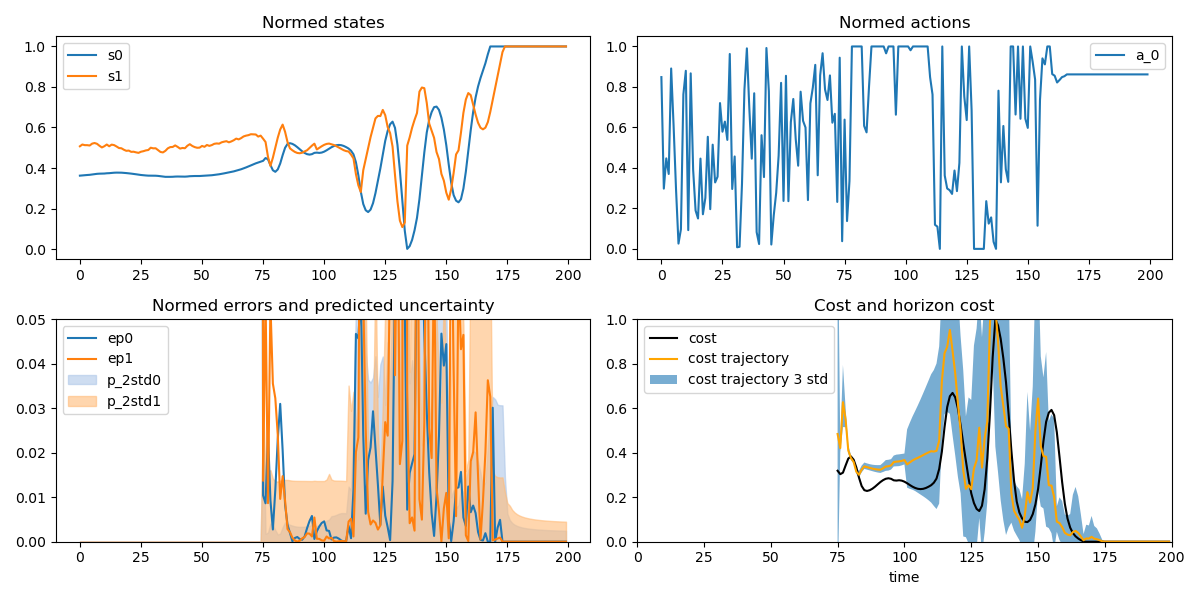
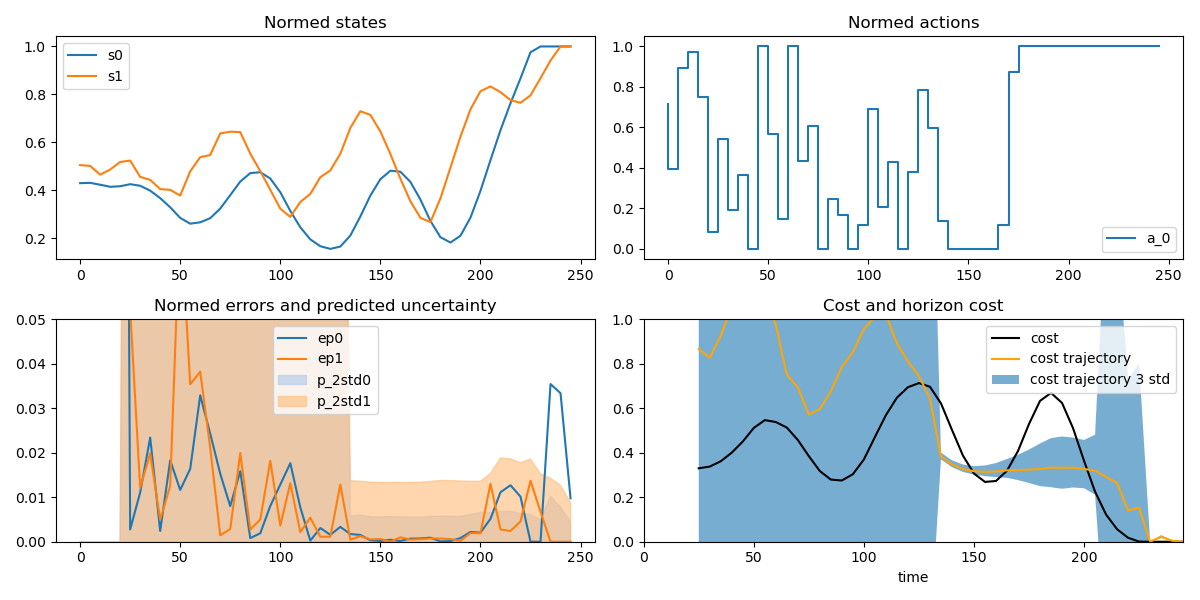
Allowed to repeat actions for longer time horizon. Added results for mountain car.

diff --git a/control_objects/utils.py b/control_objects/utils.py
@@ -13,15 +13,15 @@ from threadpoolctl import threadpool_limits
 from .gp_models import ExactGPModelMonoTask
 
 
-def save_plot_history_process(states, actions, states_next, prediction_info_over_time, output_dir, env_to_control=''):
+def save_plot_history_process(states, actions, states_next, prediction_info_over_time, folder_save, num_repeat_actions=1):
 	with threadpool_limits(limits=1, user_api='blas'), threadpool_limits(limits=1, user_api='openmp'):
-		indexes = np.arange(len(states))
+		indexes = np.arange(0, len(states) * num_repeat_actions, num_repeat_actions)
 		fig, axes = plt.subplots(nrows=2, ncols=2, figsize=(12, 6))
 		axes[0][0].set_title('Normed states')
 		axes[0][1].set_title('Normed actions')
 		axes[1][0].set_title('Normed errors and predicted uncertainty')
 		axes[1][1].set_title('Cost and horizon cost')
-		indexes_control = prediction_info_over_time['iteration']
+		indexes_control = np.array(prediction_info_over_time['iteration']) // num_repeat_actions
 		predictions_over_time_show = np.zeros_like(states_next)
 		predictions_over_time_show[indexes_control] = \
 			[prediction[0].numpy() for prediction in prediction_info_over_time['predicted states']]
@@ -39,14 +39,14 @@ def save_plot_history_process(states, actions, states_next, prediction_info_over
 			axes[1][0].fill_between(indexes, 0, 2 * predictions_std_over_time_show[:, state_idx],
 				label='p_2std' + str(state_idx),
 				color=plt.get_cmap('tab20').colors[2 * state_idx + 1], alpha=0.6)
-		axes[1][1].plot(indexes_control,
+		axes[1][1].plot(list(indexes_control * num_repeat_actions),
 			np.array([element for element in prediction_info_over_time['cost']]), label='cost', color='k')
-		axes[1][1].plot(indexes_control, mean_cost_traj, label='cost trajectory', color='orange')
-		axes[1][1].fill_between(indexes_control, mean_cost_traj - 2 * mean_cost_traj_std,
+		axes[1][1].plot(list(indexes_control * num_repeat_actions), mean_cost_traj, label='cost trajectory', color='orange')
+		axes[1][1].fill_between(list(indexes_control * num_repeat_actions), mean_cost_traj - 2 * mean_cost_traj_std,
 			mean_cost_traj + 3 * mean_cost_traj_std, label='cost trajectory 3 std', alpha=0.6)
 
 		for action_idx in range(len(actions[0])):
-			axes[0][1].plot(indexes, np.array(actions)[:, action_idx], label='a_' + str(action_idx))
+			axes[0][1].step(indexes, np.array(actions)[:, action_idx], label='a_' + str(action_idx))
 
 		plt.xlabel("time")
 		axes[0][0].legend()
@@ -55,25 +55,18 @@ def save_plot_history_process(states, actions, states_next, prediction_info_over
 		axes[1][0].set_ylim(0, 0.05)
 		axes[1][1].legend()
 		axes[1][1].set_ylim(0, 1)
-		axes[1][1].set_xlim(0, len(indexes))
+		axes[1][1].set_xlim(0, np.max(indexes))
 		plt.tight_layout()
-		year = datetime.datetime.now().year
-		month = datetime.datetime.now().month
-		day = datetime.datetime.now().day
 		hour = datetime.datetime.now().hour
 		minute = datetime.datetime.now().minute
 		second = datetime.datetime.now().second
-		folder_save = os.path.join(output_dir, env_to_control, str(year) + '_m' + str(month) + '_d' + str(day))
-		if not os.path.exists(folder_save):
-			os.makedirs(folder_save)
 		fig.savefig(os.path.join(folder_save, 'history' + '_h' + str(hour) + '_m' + str(minute)
 											  + '_s' + str(second) + '.png'))
 		plt.close()
 
 
-def save_plot_model_3d_process(input_data, output_data, train_inputs, train_targets, parameters, constraints,
-		indexes_points_in_gp_memory=None,
-		prop_extend_domain=1, n_ticks=100, total_col_max=3, fontsize=6, output_dir='models_3d', env_to_control=''):
+def save_plot_model_3d_process(input_data, output_data, train_inputs, train_targets, parameters, constraints, folder_save,
+		indexes_points_in_gp_memory=None, prop_extend_domain=1, n_ticks=100, total_col_max=3, fontsize=6):
 	with threadpool_limits(limits=1, user_api='blas'), \
 			threadpool_limits(limits=1, user_api='openmp'), torch.no_grad(), gpytorch.settings.fast_pred_var():
 		torch.set_num_threads(1)
@@ -174,7 +167,7 @@ def save_plot_model_3d_process(input_data, output_data, train_inputs, train_targ
 				surf2 = axes[subplot_idx + total_col_max].contour3D(x_grid, y_grid, z_grid_std, n_ticks, cmap='cool')
 				axes[subplot_idx + total_col_max].set_xlabel('Input ' + str(best_features[0]), fontsize=fontsize, rotation=150)
 				axes[subplot_idx + total_col_max].set_ylabel('Input ' + str(best_features[1]), fontsize=fontsize, rotation=150)
-				axes[subplot_idx + total_col_max].set_zlabel('Errors and std state ' + str(index_observation_represent),
+				axes[subplot_idx + total_col_max].set_zlabel('Uncertainty: std state ' + str(index_observation_represent),
 					fontsize=fontsize, rotation=60)
 
 				if output_data is not None:
@@ -199,15 +192,9 @@ def save_plot_model_3d_process(input_data, output_data, train_inputs, train_targ
 						color='k', linestyle="solid", alpha=0.3, arrow_length_ratio=0.001, length=0.9)
 
 			plt.tight_layout()
-			year = datetime.datetime.now().year
-			month = datetime.datetime.now().month
-			day = datetime.datetime.now().day
 			hour = datetime.datetime.now().hour
 			minute = datetime.datetime.now().minute
 			second = datetime.datetime.now().second
-			folder_save = os.path.join(output_dir, env_to_control, str(year) + '_m' + str(month) + '_d' + str(day))
-			if not os.path.exists(folder_save):
-				os.makedirs(folder_save)
 			fig.savefig(os.path.join(folder_save, 'model_3d' + '_h' + str(hour) + '_m' + str(minute)
 															  + '_s' + str(second) + '.png'))
 			plt.close()

diff --git a/main.py b/main.py
@@ -1,5 +1,6 @@
 import time
 import os
+import datetime
 
 import numpy as np
 import gym
@@ -26,11 +27,21 @@ def main():
 	params_actions_optimizer = params_json_env['params_actions_optimizer']
 	params_init = params_json_env['params_init']
 	params_memory = params_json_env['params_memory']
+	num_steps = params_json_env['num_steps_env']
+	num_repeat_actions = params_controller["num_repeat_actions"]
 	env = gym.make(env_to_control)
+
+	datetime_now = datetime.datetime.now()
+	folder_save = os.path.join('folder_save', env_to_control, 'y' + str(datetime_now.year) \
+					+ '_mon' + str(datetime_now.month) + '_d' + str(datetime_now.day) + '_h' + str(datetime_now.hour) \
+					+ '_min' + str(datetime_now.minute) + '_s' + str(datetime_now.second))
+	if not os.path.exists(folder_save):
+		os.makedirs(folder_save)
+
 	if params_general['save_render_env']:
 		if not os.path.exists(os.path.join('folder_save', env_to_control)):
 			os.makedirs(os.path.join('folder_save', env_to_control))
-		rec = VideoRecorder(env, path=os.path.join('folder_save', env_to_control, 'anim.mp4'))
+		rec = VideoRecorder(env, path=os.path.join(folder_save, 'anim' + env_to_control + '.mp4'))
 	env.reset()
 	target = np.array(params_controller['target'])
 	weights_target = np.diag(params_controller['weights_target'])
@@ -38,32 +49,40 @@ def main():
 	s_observation = np.diag(params_controller['s_observation'])
 	control_object = ProbabiliticGpMpcController(env.observation_space, env.action_space, params_controller,
 									params_train, params_actions_optimizer, hyperparameters_init, target,
-									weights_target, weights_target_terminal_cost, params_constraints, env_to_control)
+									weights_target, weights_target_terminal_cost, params_constraints, env_to_control,
+									folder_save, num_repeat_actions)
 	action = env.action_space.low + (env.action_space.high - env.action_space.low) * np.random.uniform(0, 1)
-	for idx_action in range(params_controller["num_repeat_actions"]):
-		observation, reward, done, info = env.step(action)
+	observation, reward, done, info = env.step(action)
 
-	for idx_random_action in range(params_init['num_random_actions_init']):
+	for idx_random_action in range(params_init['num_random_actions_init'] // num_repeat_actions):
 		control_object.action = np.random.uniform(0, 1)
 		action = env.action_space.low + (env.action_space.high - env.action_space.low) * control_object.action
-		new_observation, reward, done, info = env.step(action)
+		for idx_action in range(num_repeat_actions):
+			new_observation, reward, done, info = env.step(action)
+			if params_general['render_env']:
+				try:
+					env.render()
+				except:
+					pass
+			if params_general['save_render_env']:
+				rec.capture_frame()
 
-		if params_general['render_env']:
-			try:
-				env.render()
-			except:
-				pass
-		if params_general['save_render_env']:
-			rec.capture_frame()
 		control_object.add_point_memory(observation, action, new_observation, reward)
 		observation = new_observation
 
-	for index_iter in range(params_general['num_steps_env'] - params_init['num_random_actions_init']):
+	for index_iter in range((num_steps - params_init['num_random_actions_init']) // num_repeat_actions):
 		time_start = time.time()
 
 		action, add_info_dict = control_object.compute_prediction_action(observation, s_observation)
-		for idx_action in range(params_controller["num_repeat_actions"]):
+		for idx_action in range(num_repeat_actions):
 			new_observation, reward, done, info = env.step(action)
+			if params_general['render_env']:
+				try:
+					env.render()
+				except:
+					pass
+			if params_general['save_render_env']:
+				rec.capture_frame()
 		control_object.add_point_memory(observation, action, new_observation, reward,
 										add_info_dict=add_info_dict, params_memory=params_memory)
 		if params_general['verbose']:
@@ -71,13 +90,6 @@ def main():
 				print(key + ': ' + str(add_info_dict[key]))
 		observation = new_observation
 
-		if params_general['render_env']:
-			try:
-				env.render()
-			except:
-				pass
-		if params_general['save_render_env']:
-			rec.capture_frame()
 
 		if params_general['save_plot_history'] and \
 				(control_object.num_points_memory % params_general["frequency_iter_save"] == 0):

diff --git a/control_objects/probabilistic_gp_mpc_controller.py b/control_objects/probabilistic_gp_mpc_controller.py
@@ -17,7 +17,7 @@ torch.set_default_tensor_type(torch.DoubleTensor)
 class ProbabiliticGpMpcController(BaseControllerObject):
 	def __init__(self, observation_space, action_space, params_controller, params_train, params_actions_optimizer,
 			hyperparameters_init, target_state, weights_matrix_cost_function, weight_matrix_cost_function_terminal, 
-			constraints, env_to_control):
+			constraints, env_to_control, folder_save, num_repeat_actions):
 		BaseControllerObject.__init__(self, observation_space, action_space)
 		self.models = []
 		self.weight_matrix_cost_function = torch.Tensor(weights_matrix_cost_function)
@@ -39,8 +39,9 @@ class ProbabiliticGpMpcController(BaseControllerObject):
 		self.prediction_info_over_time = {}
 		self.limit_derivative_actions = params_controller['limit derivative actions']
 		self.max_derivative_action_norm = params_controller['max derivative actions norm']
-		self.folder_save = 'folder_save'
+		self.folder_save = folder_save
 		self.env_to_control = env_to_control
+		self.num_repeat_actions = num_repeat_actions
 		self.indexes_memory_gp = []
 		if self.limit_derivative_actions:
 			min_d_actions = -self.max_derivative_action_norm
@@ -328,7 +329,7 @@ class ProbabiliticGpMpcController(BaseControllerObject):
 			# (self.observation_space.high - self.observation_space.low) + self.observation_space.low
 			# denorm_std_states = std_states * (self.observation_space.high - self.observation_space.low)
 			std_states = torch.sqrt(torch.diagonal(self.s_states_pred, dim1=-2, dim2=-1))
-			add_info_dict = {'iteration': self.num_points_memory,
+			add_info_dict = {'iteration': self.num_points_memory * self.num_repeat_actions,
 							'state': self.mu_states_pred[0],
 							'predicted states': self.mu_states_pred[1:],
 							'predicted states std': std_states[1:],
@@ -357,8 +358,8 @@ class ProbabiliticGpMpcController(BaseControllerObject):
 						self.models[0].train_inputs[0],
 						[model.train_targets for model in self.models],
 						[model.state_dict() for model in self.models],
-						self.constraints, self.indexes_memory_gp, prop_extend_domain, n_ticks, total_col_max,
-						fontsize, self.folder_save, self.env_to_control))
+						self.constraints, self.folder_save, self.indexes_memory_gp, prop_extend_domain, n_ticks,
+						total_col_max, fontsize))
 			self.p_save_plot_model_3d.start()
 			self.num_cores_main -= 1
 
@@ -368,8 +369,7 @@ class ProbabiliticGpMpcController(BaseControllerObject):
 			actions = self.x[:self.num_points_memory, self.num_outputs:].numpy()
 			states_next = self.y[:self.num_points_memory].numpy() + states
 			self.p_save_plot_history = self.ctx.Process(target=save_plot_history_process,
-			args=(states, actions, states_next, self.prediction_info_over_time, self.folder_save,
-			self.env_to_control))
+			args=(states, actions, states_next, self.prediction_info_over_time, self.folder_save, self.num_repeat_actions))
 			self.p_save_plot_history.start()
 			self.num_cores_main -= 1
 
